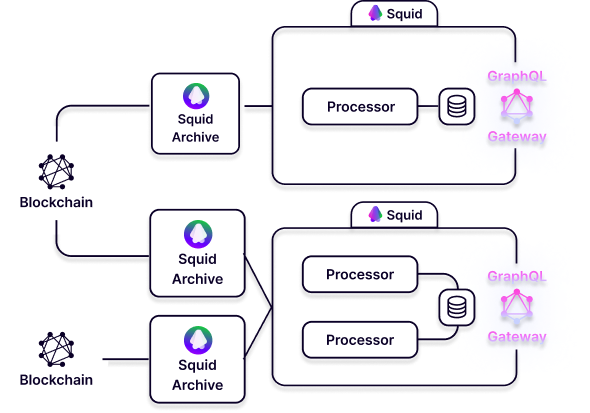
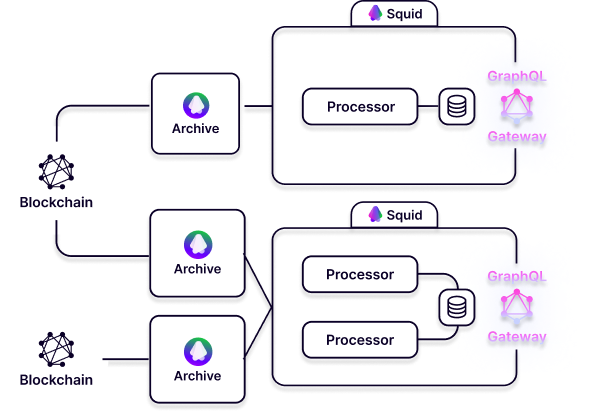
GitBook: [#11] No subject

Changed region(s): [[0.2746, 0.7845, 0.3966, 0.9588], [0.2746, 0.523, 0.3966, 0.6973], [0.2746, 0.2034, 0.3966, 0.3487]]

diff --git a/key-concepts/architecture.md b/key-concepts/architecture.md
@@ -12,16 +12,38 @@ This is very useful for the vast majority of developers, as it adds a layer of a
 
 The Squid data pipeline consists of two core components:
 
-* **Squid Archive**: data source, can be shared by multiple query nodes
+* **Archive**: data source, can be shared by multiple query nodes
 * **Squid**: the data transformation part of the pipeline
 
-![Squid and Squid Archive are the main components](<../.gitbook/assets/Squid Architecture.png>)
+![Squid and Archive are the main components](<../.gitbook/assets/Squid Architecture.png>)
 
-A [Squid Archive](architecture.md#squid-archive) is set up to continuously scan the blockchain it was developed for, process blocks, and save them in a database, along with [Events](substrate.md#events) and [Extrinsics](substrate.md#extrinsics) defined for that specific blockchain.
+A[ Archive](architecture.md#squid-archive) is set up to continuously scan the blockchain it was developed for, process blocks, and save them in a database, along with [Events](substrate.md#events) and [Extrinsics](substrate.md#extrinsics) defined for that specific blockchain.
 
-In the context of a Squid query node, a Processor is responsible to get data from a Squid Archive, transform it, and store it in the database.
+In the context of a Squid query node, a Processor is responsible to get data from an Archive, transform it, and store it in the database.
 
 The GraphQL Server is a separate web server providing a GraphQL API (more on the [official website](https://graphql.org)) for the entities in the data store.
+
+### Archive
+
+Archives should not be confused with [Archive nodes](https://wiki.polkadot.network/docs/maintain-sync#types-of-nodes), although the concept is pretty similar, since both preserve the full blockchain history, without any pruning. The difference is that our Archives are special services, with specific endpoints, tailored for data retrieval.
+
+An Archive is responsible for continuously ingesting raw data from the blockchain, decoding it, and saving it in a database for easier access through GraphQL APIs. Its main purpose is to provide a service, to be a high-performance, higher level data source for Squid(s).
+
+An Archive includes the following components and services:
+
+* Substrate archive
+* Postgres database
+* Redis data storage
+* Status service
+* GraphQL Gateway
+
+![Archive components diagram](<../.gitbook/assets/Squid Archive components (1).png>)
+
+Ultimately, the Substrate Archive extracts Block Information, [Events](substrate.md#events), and [Extrinsics](substrate.md#extrinsics), then writes them to a Postgres database, while the status updates are saved in a Redis key-value database. Archived data is available for clients' queries, thanks to a GraphQL server running as part of every Squid Archive node.
+
+An Archive can be shared by multiple Squids, which means it is possible to segment how data is presented, based on the user's needs, without having to replicate the data source.
+
+To launch your own Archive for a particular Blockchain, head over to [our dedicated page](../recipes/how-to-launch-a-squid-archive.md) on the topic.
 
 ### Squid
 
@@ -31,7 +53,7 @@ A Squid is a query node for transforming and presenting Substrate blockchain dat
 * **Database**: a PostgreSQL database where processed data is stored
 * **GraphQL Server**: every query node comes with a gateway to present processed data
 
-A Squid replaces direct gRPC node access with more performant API calls to Squid Archive gateways, allowing bandwidth reduction and quick synchronization of the API with the historical on-chain data. It can be run locally, on a server, or deployed to the Cloud using [our SaaS solution](../tutorial/deploy-your-squid.md).
+A Squid replaces direct gRPC node access with more performant API calls to Archive gateways, allowing bandwidth reduction and quick synchronization of the API with the historical on-chain data. It can be run locally, on a server, or deployed to the Cloud using [our SaaS solution](../tutorial/deploy-your-squid.md).
 
 Thanks to the Subsquid framework, it is possible to:
 
@@ -41,30 +63,11 @@ Thanks to the Subsquid framework, it is possible to:
 
 Subsquid provides developers with a high-level GraphQL-like schema and codegen tools to model blockchain data with Entities. One of the advantages, here, is the removal of boilerplate code to unbox. A more significant advantage is certainly the elimination of incorrect data types due to wrong decoding and missing parameters.
 
-Even more importantly, when handling unstructured data from events, the data format may change from one block to the next, due to runtime upgrades. Without type safety and automation guaranteed by typegen, managing these alterations would be a nightmare.
+Even more importantly, when handling unstructured data from events, the data format may change from one block to the next, due to runtime upgrades. Without type safety and automation guaranteed by [typegen](typegen.md), managing these alterations would be a nightmare.
 
-The Processor extracts data from a Squid Archive Endpoint and does Transform-Load operations, saving it to the database. The transform-load logic is fully custom and defined by the developer.
+The Processor extracts data from an Archive Endpoint and does Transform-Load operations, saving it to the database. The transform-load logic is fully custom and defined by the developer.
 
 Once the schema and the mappings are set up, and the node is launched, it will start the continuous scan of the blockchain, processing the events through the Event handlers and updating the entities in the database.
 
 The API requests are resolved by the GraphQL server by sourcing data from the Processor database. [OpenCRUD](https://www.opencrud.org) filtering, entity relations, pagination, and text queries are supported out-of-the-box by the API.
 
-### Squid archive
-
-A Squid Archive is responsible for continuously ingesting raw data from the blockchain, decoding it, and saving it in a database for easier access through GraphQL APIs.
-
-![](<../.gitbook/assets/Squid Archive components (1).png>)
-
-It includes the following components and services:
-
-* Substrate archive
-* Postgres database
-* Redis
-* Status service
-* GraphQL Gateway
-
-Ultimately, the Substrate Archive extracts Block Information, [Events](substrate.md#events), and [Extrinsics](substrate.md#extrinsics), then writes them to a Postgres Database, while the status updates are saved in a Redis cache. Archived data is available for clients' queries, thanks to a GraphQL server running as part of every Squid Archive node.
-
-A Squid Archive can be shared by multiple Squids, which means it is possible to segment how data is presented, based on the user's needs, without having to replicate the data source.
-
-To launch your own Squid Archive for a particular Blockchain, head over to [our dedicated page](../recipes/how-to-launch-a-squid-archive.md) on the topic.

diff --git a/README.md b/README.md
@@ -16,21 +16,23 @@ The various sections and pages of this material cover a variety of subjects. The
 
 Subsquid's [multi-layer approach](key-concepts/architecture.md) aims to pre-process and decode raw chain data and store it for easier access by query nodes, providing increased performance over direct RPC calls.
 
-Thanks to Subsquid, the complexity of queries can be vastly reduced. On top of that, developers get a batteries-included GraphQL server with comprehensive filtering, pagination, and even full-text search capabilities.
+Thanks to Subsquid, the complexity of fetching and transforming blockchain data can be vastly reduced. On top of that, developers get a batteries-included GraphQL server with comprehensive filtering, pagination, and even full-text search capabilities.
 
 ### Data retrieval made ~~easy~~ easier :smile:
 
-Blockchains produce, add, and store data in a very different way than do centralized sources. As a result, how one must search for information stored on blockchains is different as well. \
+Blockchains produce, add, and store data in a very different way than do centralized sources. As a result, how one must search for information stored on blockchains is different as well.\
 \
-The beauty of blockchain is that anyone can tap into on-chain data in order to create their own DApps. However, a massive uptick in the development of decentralized applications has led to a morass of data spread across blockchains. This information has become difficult to access and utilize.&#x20;
+The beauty of blockchain is that anyone can tap into on-chain data in order to create their own DApps. However, a massive uptick in the development of decentralized applications has led to a morass of data spread across blockchains. This information has become difficult to access and utilize.
+
+Furthermore, in this ever-evolving environment, updates and changes upstream can have breaking consequences to data processing pipelines.
 
 Poor data leads to poor products, and before we know it, blockchain solutions may start to fail as a result of data feeds that are simply not up to the job. This would be a shame, as we have barely begun to scratch the surface of what could be achieved in a decentralized world!
 
-This is where Subsquid comes in. Subsquid has a multi-layered [architecture](key-concepts/architecture.md), composed of [Squid Archive(s)](key-concepts/architecture.md#squid-archive) and [Squid(s)](key-concepts/architecture.md#squid).
+This is where Subsquid comes in. Subsquid has a multi-layered [architecture](key-concepts/architecture.md), composed of [Archive(s)](key-concepts/architecture.md#squid-archive) and [Squid(s)](key-concepts/architecture.md#squid).
 
-Subsquid is rapidly deploying Squid Archives to gather data from available blockchains on behalf of developers who wish to use this data to develop DApps. These Squid Archives are constantly ingesting and decoding (archiving, hence the name... 😜 ) data from the blockchains that they were built to synchronize with.
+Subsquid is rapidly deploying Archives to gather data from available blockchains on behalf of developers who wish to use this data to develop DApps. These Archives are constantly ingesting and decoding data from the blockchains that they were built to synchronize with and storing (archiving, hence the name... 😜 ) it for a much easier access by developers.
 
-The power of Subsquid is the framework it provides. This framework allows developers to create APIs using the technology and techniques with which they are already familiar. All of this can be developed on top of blockchain data provided by Squid Archives, instead of direct gRPC node access, thus reducing the friction and inertia of starting a new project.
+The power of Subsquid is the framework it provides. This framework allows developers to create APIs using the technology and techniques with which they are already familiar. All of this can be developed on top of blockchain data provided by Archives, instead of direct gRPC node access, thus reducing the friction and inertia of starting a new project.
 
 ## What's next?
 

diff --git a/recipes/how-to-launch-a-squid-archive.md b/recipes/how-to-launch-a-squid-archive.md
@@ -1,2 +1,55 @@
-# How to launch a Squid Archive for a Blockchain
+---
+description: Quick how-to on running an Archive for a specific blockchain.
+---
 
+# How to launch an Archive
+
+## Overview
+
+This quick Recipe covers how to launch an Archive for a blockchain that is already covered by Subsquid and how to run one for a new blockchain.
+
+### Requirements
+
+In order to run an Archive, it is required to have Docker installed. For a quick installation guide, head over to [the dedicated page](../tutorial/development-environment-set-up.md#docker).
+
+## Squid Archive repository
+
+Launching an Archive is as easy as visiting our [dedicated Archive setup repository](https://github.com/subsquid/squid-archive-setup) and checking if the blockchain you want to synchronize is listed. Let's say Equilibrium, in the context of this example.
+
+![Archives list in the repository](<../.gitbook/assets/archive list.png>)
+
+If that is the case, simply clone the repository
+
+```
+git clone git@github.com:subsquid/squid-archive-setup.git
+```
+
+Navigate to the corresponding folder in a command line console window and run
+
+```
+docker-compose up
+```
+
+### Running in production environment
+
+The provided docker compose setup is a minimal configuration best suitable for dev and testing environments. For a stable production deployment we recommend the following.
+
+* Use a private gRPC endpoint (`WS_PROVIDER_ENDPOINT_URI` env variable in the docker file)
+* Use managed Postgres database with non-root access (`DB_*` env variables in the docker file)
+* Collect and monitor [Prometheus](https://prometheus.io) metrics exposed at port 9090
+* Increase `WORKERS_NUMBER` environment variable to speed up the syncing. Usually somewhere between 5-50 workers is a sweet spot depending on the gRPC endpoint capacity.
+
+To reliably run an Archive we recommend 16GB RAM and modern CPU. Database storage requirements depend on the size of the network. A rule of thumb is to reserve around 100 kb per block, so e.g. for Kusama with \~10M blocks one needs about 1Tb for Postgres storage.
+
+## Launch an Archive for a new blockchain
+
+If a specific blockchain is not listed in the repository, it is possible to add it by contributing to the repository itself, following these steps:
+
+1. Fork the repository
+2. Create a folder dedicated to the new blockchain
+3. Copy one of the `docker-compose.yml` file from another folder&#x20;
+   * Edit the `WS_PROVIDER_ENDPOINT_URI` environment variable to the correct endpoint for the given chain
+   * Make sure to create a types bundle file named as the one mentioned in the `BUNDLE_TYPES` environment variable (see next point)
+4. The Archive needs to know which types the blockchain Runtime is using, and to instruct it, a types bundle JSON file needs to be passed in.
+   * To know how to create such a file for a given chain, head over to [our dedicated page](../faq/where-do-i-get-a-type-bundle-for-my-chain.md)
+5. Create a pull-request towards the main repository

diff --git a/SUMMARY.md b/SUMMARY.md
@@ -17,7 +17,7 @@
   * [Deploy your Squid](tutorial/deploy-your-squid.md)
 * [Recipes](recipes/README.md)
   * [Migrate to v5](recipes/migrate-to-v5.md)
-  * [How to launch a Squid Archive](recipes/how-to-launch-a-squid-archive.md)
+  * [How to launch an Archive](recipes/how-to-launch-a-squid-archive.md)
   * [Generate TypeScript definitions](recipes/generate-typescript-definitions.md)
   * [Define a Squid Schema](recipes/define-a-squid-schema.md)
 * [Reference](reference/README.md)
